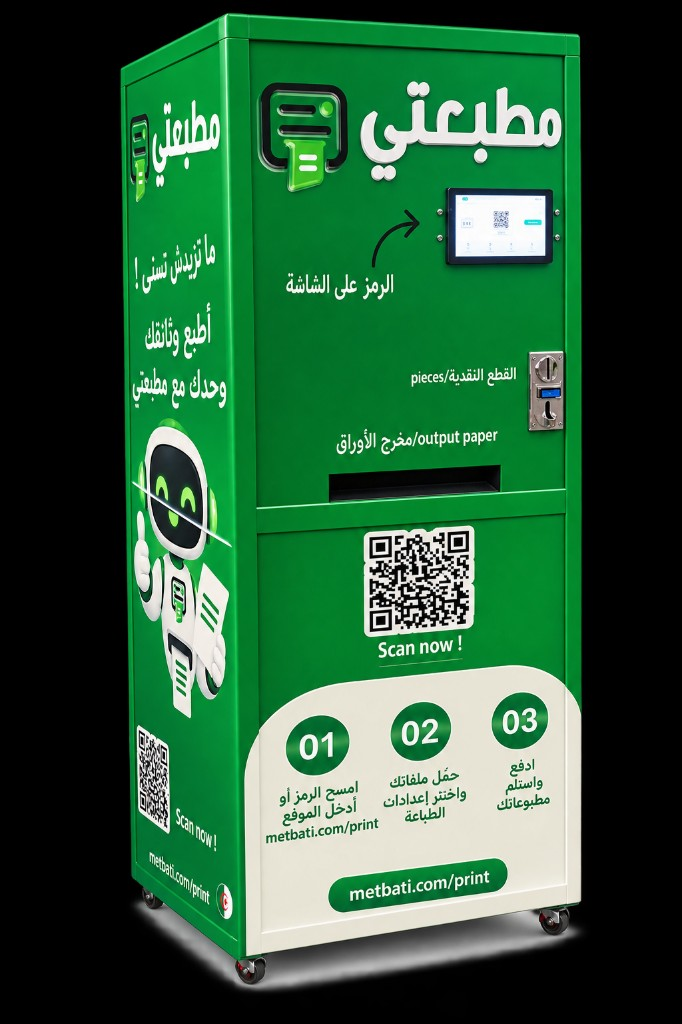
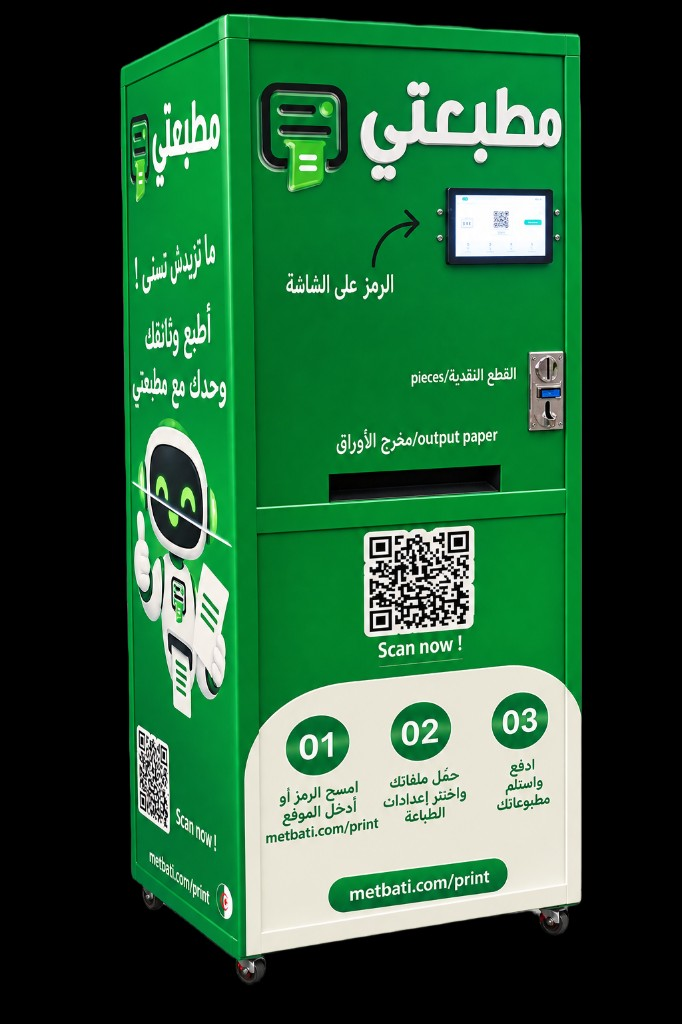
Swap in the provided kiosk photo as-is and display it smaller on the landing page.

Changed region(s): [[0.1848, 0.875, 0.8622, 0.9688]]

diff --git a/resources/js/Components/Hero.jsx b/resources/js/Components/Hero.jsx
@@ -3,7 +3,7 @@ import AnimateIn from './AnimateIn';
 import { ArrowRight } from './Icons';
 import { useLandingLocale } from '../lib/LandingLocale';
 
-const kioskSrc = '/images/kiosk-real.png';
+const kioskSrc = '/images/kiosk-real.jpg';
 
 export default function Hero() {
     const { t, isAr } = useLandingLocale();
@@ -59,7 +59,7 @@ export default function Hero() {
 
                     <div className="relative flex justify-center lg:justify-end order-1 lg:order-2 px-1 sm:px-0">
                         <motion.div
-                            className="relative w-full max-w-[300px] xs:max-w-[340px] sm:max-w-[400px] md:max-w-[460px] lg:max-w-[520px]"
+                            className="relative w-full max-w-[210px] sm:max-w-[240px] md:max-w-[280px] lg:max-w-[320px]"
                             initial={{ opacity: 0, y: 28, scale: 0.96 }}
                             animate={{ opacity: 1, y: 0, scale: 1 }}
                             transition={{ duration: 0.85, delay: 0.15, ease: [0.22, 1, 0.36, 1] }}

diff --git a/resources/js/Components/KioskShowcase.jsx b/resources/js/Components/KioskShowcase.jsx
@@ -3,7 +3,7 @@ import AnimateIn from './AnimateIn';
 import { ArrowRight, Check } from './Icons';
 import { useLandingLocale } from '../lib/LandingLocale';
 
-const kioskSrc = '/images/kiosk-real.png';
+const kioskSrc = '/images/kiosk-real.jpg';
 
 export default function KioskShowcase() {
     const { t, isAr } = useLandingLocale();
@@ -40,7 +40,7 @@ export default function KioskShowcase() {
                         aria-hidden="true"
                         className="absolute inset-0 -z-10 m-auto h-[65%] w-[75%] rounded-full bg-primary/10 blur-[90px]"
                     />
-                    <div className="relative w-full max-w-[280px] sm:max-w-[360px] md:max-w-[420px]">
+                    <div className="relative w-full max-w-[200px] sm:max-w-[240px] md:max-w-[280px]">
                         <div
                             aria-hidden="true"
                             className="absolute inset-x-[10%] bottom-[2%] h-[10%] rounded-[100%] bg-ink/15 blur-xl"
